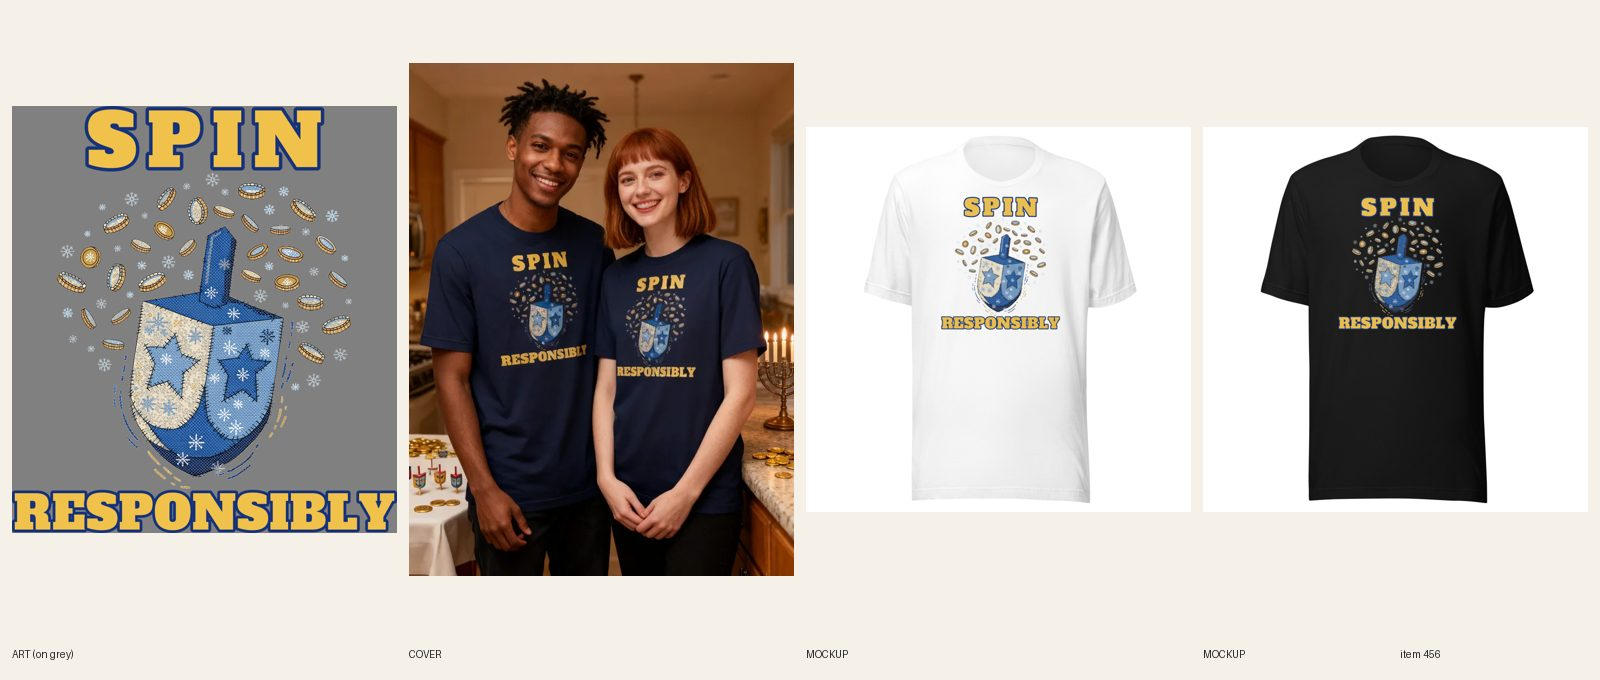
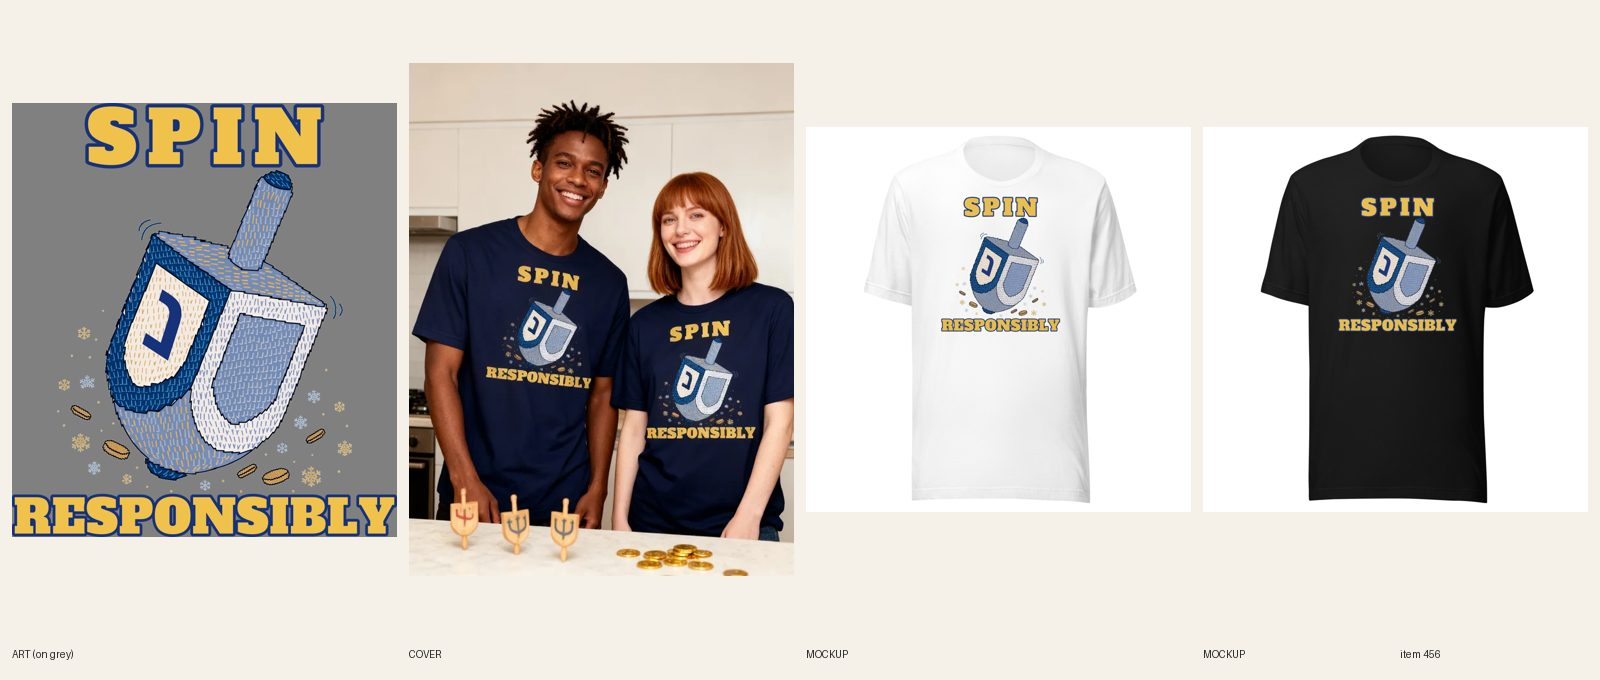
[A] 456 REDO: re-link to fixed dreidel print, new mockups, menorah-free cover
Claude-Session: https://claude.ai/code/session_01TsWHYwEQ2LyKMjvyqfq1FM

Changed region(s): [[0.0, 0.0926, 0.5, 0.8647], [0.8125, 0.3088, 0.9062, 0.4941], [0.5625, 0.3088, 0.6875, 0.4941]]

diff --git a/docs/pipeline/456-hanukkah-tee-spin-responsibly.md b/docs/pipeline/456-hanukkah-tee-spin-responsibly.md
@@ -1,4 +1,4 @@
-status: REDO
+status: BUILDING [A] 2026-10-18 06:15
 lane: A
 type: twin
 id: 456
@@ -25,3 +25,4 @@ kd: 48
 - 2026-10-18 01:30 UTC builder [A]: BUILDING: twin of #455, source print file 1088463459 re-hosted as Printful file 1088611858, FW 1650 (3385x3754). R6.2 check: SPIN / RESPONSIBLY are Alfa Slab gold capitals in a real font with a blue outline (R4.8), no ring/arch/panel; fine. NEW Shopify DRAFT gid 15364376723760 (BC 3001, White/Athletic Heather/Navy/Dark Grey Heather/Black x S-4XL = 35, $24.99 no compare-at, tags incl. both graphic-tees-for-men/women, FAQs 5 x 46-49 words incl. order by Nov 20, SEO 45/139). Mockups for all 5 colors + back attached and linked; cover regs #655 + #656 couple (seedream 1 attempt, both prints read, menorah at the side), sheet made. Sync 482653265 queued. Resume: `FW=1650 python3 scripts/pf-sync.py setfile 482653265 1088611858 1080398177`; when 35/35 set REVIEW.
 - 2026-10-18 02:56 UTC builder [A]: BUILT. Twin of #455 (LIVE): R6.2 check on the source print (Printful file 1088463459): SPIN / RESPONSIBLY are Alfa Slab gold capitals with a blue outline in a real font (R4.8), no ring, arch, disc, box or panel around the stitched dreidel and gelt; reused as is (re-hosted as file 1088611858, 3385x3754), FW 1650, 35/35 variants linked, back logo kept. NEW Shopify DRAFT (gid 15364376723760, BC 3001, White/Athletic Heather/Navy/Dark Grey Heather/Black x S-4XL, $24.99 no compare-at, category tees, tags graphic-tees-for-men + graphic-tees-for-women + funny-graphic-tees + hanukkah): 'hanukkah shirt' in line one and meta, FAQs 5 x 46-49 words incl. order-by Nov 20 (Hanukkah Dec 4), SEO 45/139. Mockups for all 5 colors + back, each color on its own photo; phone-size read OK. Cover regs #655 + #656 couple (seedream 1 attempt, navy tee mockup as --design): both prints legible, menorah and gelt at the side, nothing over either print. fal ~$0.06. Audit script not runnable on drafts here; astro build passes.
 - 2026-10-18 03:16 UTC director: REDO. (1) R5.3.9: this tee twin reuses #455's dreidel art, which went back at 02:55 UTC (Stars of David where the Hebrew letters belong; the zoomed art shows plain 5-point stars and snowflakes, which read as Christmas, not Hanukkah). Wait for #455's fixed print, then re-link this tee to it (same FW 1650, same colors). (2) R5.3.9 on the cover: the menorah on the counter is cut off by the frame edge and half hidden behind her arm, so its candles can't be counted. Paint it out (keep the gelt), or composite a full hanukkiah with exactly 9 candles (8 in a row plus one raised shamash) fully in frame, then count them at 200%. (3) R6.9: re-composite both chests from the new mockup. Couple, scene and copy are fine.
+- 2026-10-18 06:40 UTC builder [A]: REDO done (director 03:16). (1) R5.3.9: re-linked to #455's fixed print (Printful file 1088668933, plain-face dreidel with the nun, 3385x3817, FW 1650); 35/35 re-link queued behind the others (verify default file = 1088668933). Copy now describes the nun and the stitched-look dreidel (no stars). New mockups for all 5 colors + back replace the media, linked per color. (2) The cover: new generation(s) with the new mockup as --design and 'no menorah' in the scene; generation 2 still had a cut-off menorah at the left edge, generation 3 (the REDO's extra attempt, ~$0.18 total) has none anywhere; table dreidels are small props. (3) R6.9: both chests carry the exact new print (generated from the mockup as --design), both legible, nothing over them. Product stays DRAFT until the director publishes.
